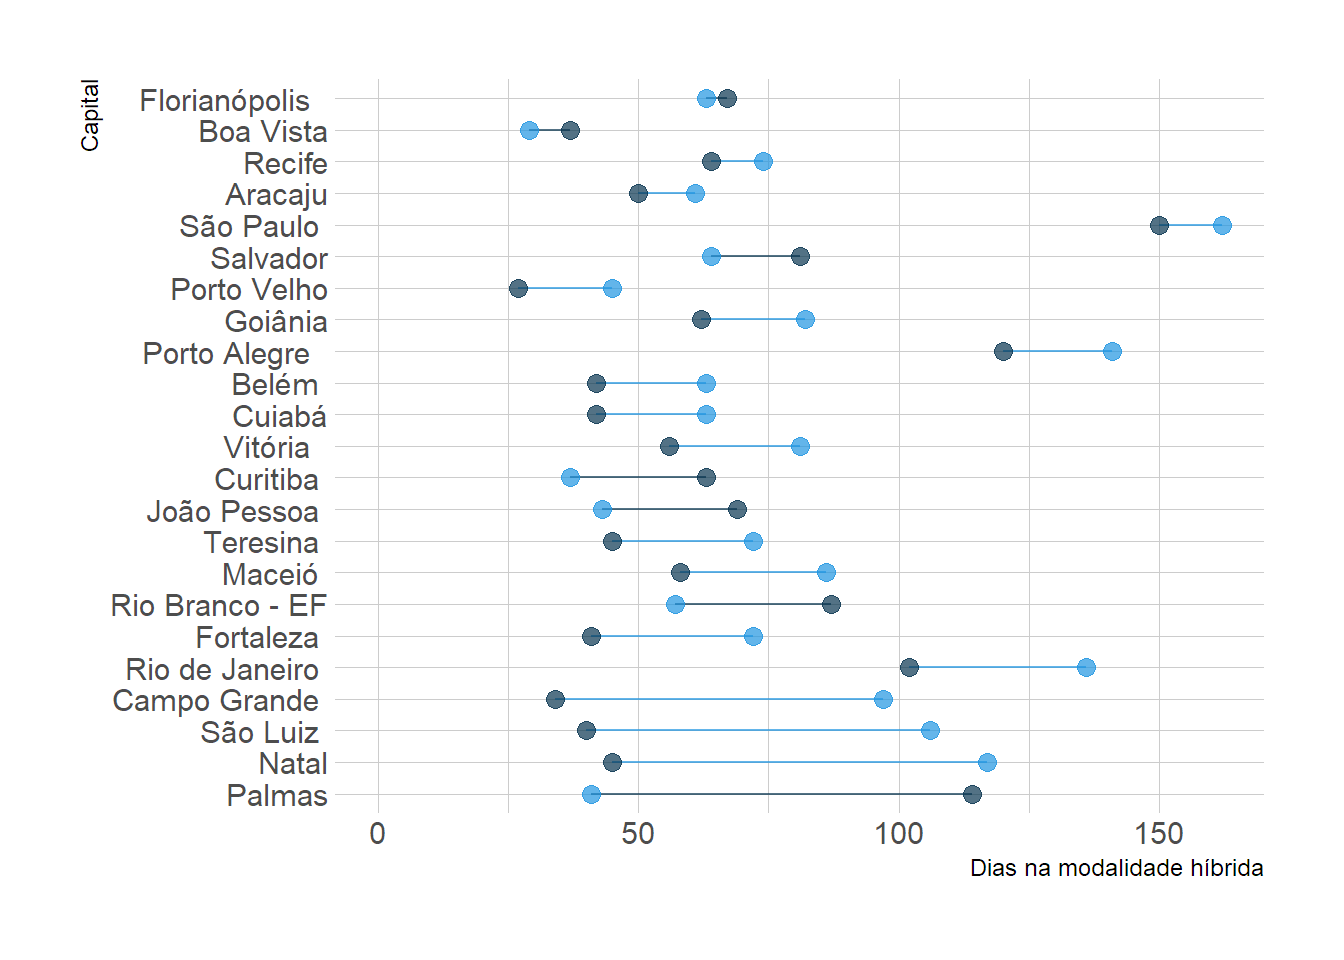
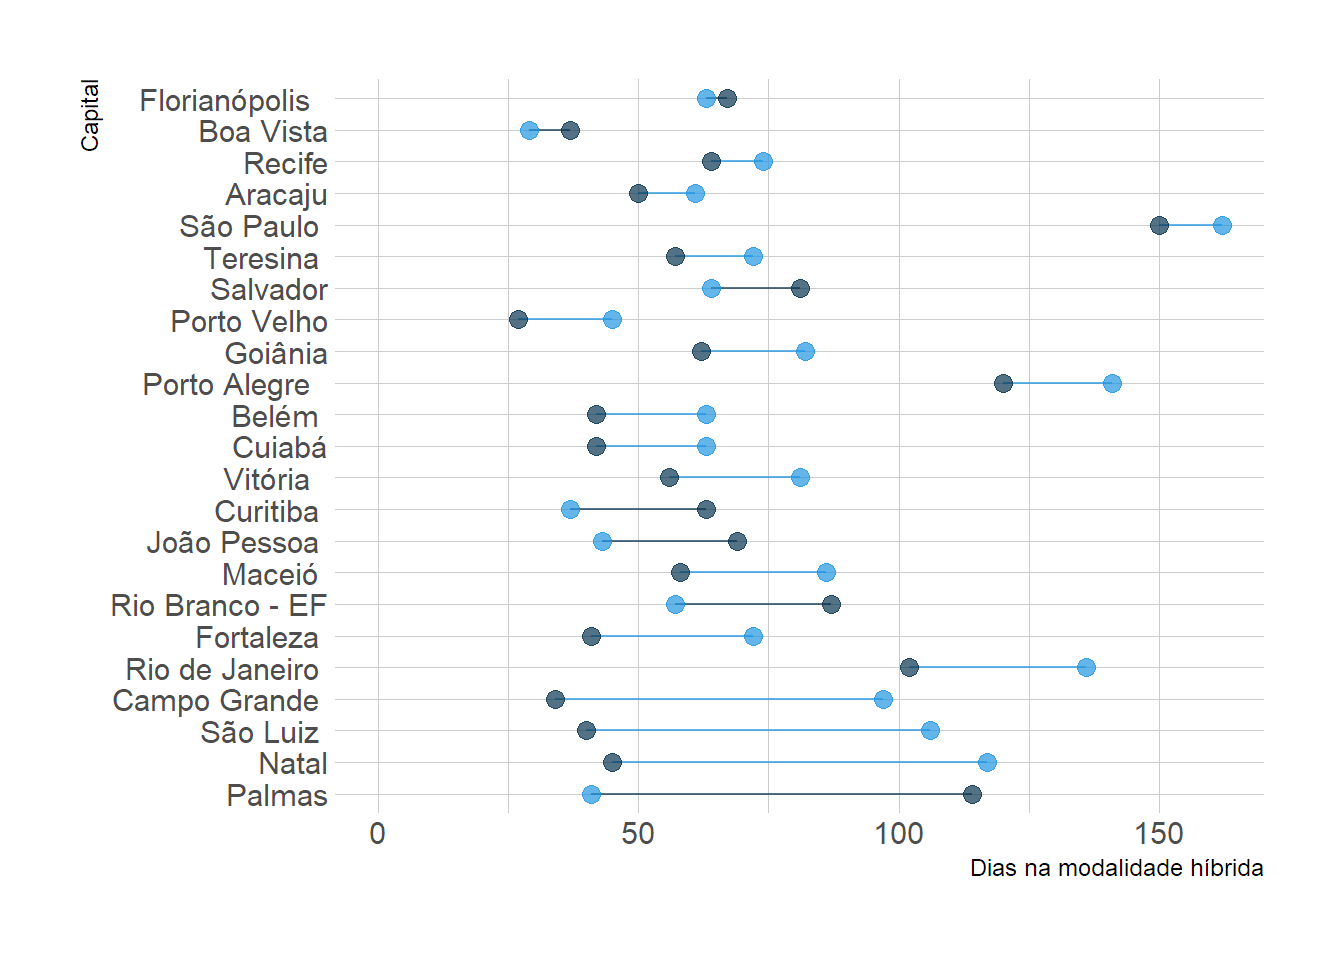
Correção Piauí

diff --git a/docs/Cronograma.html b/docs/Cronograma.html
@@ -346,27 +346,27 @@ novo_cronograma_municipal &lt;- novo_cronograma %&gt;%
 
 print(graf, &quot;chart&quot;)</code></pre>
 <!-- BarChart generated in R 4.0.3 by googleVis 0.6.10 package -->
-<!-- Tue Dec 21 16:57:47 2021 -->
+<!-- Wed Dec 22 12:39:04 2021 -->
 <!-- jsHeader -->
 <script type="text/javascript">
  
 // jsData 
-function gvisDataBarChartIDa180fce7d4 () {
+function gvisDataBarChartID1a54444f1712 () {
 var data = new google.visualization.DataTable();
 var datajson =
 [
  [
-"Teresina ",
-166,
-45,
-42,
-0
-],
-[
 "Goiânia",
 109,
 62,
 40,
+0
+],
+[
+"Teresina ",
+111,
+57,
+42,
 0
 ],
 [
@@ -562,8 +562,8 @@ return(data);
 }
  
 // jsDrawChart
-function drawChartBarChartIDa180fce7d4() {
-var data = gvisDataBarChartIDa180fce7d4();
+function drawChartBarChartID1a54444f1712() {
+var data = gvisDataBarChartID1a54444f1712();
 var options = {};
 options["allowHtml"] = true;
 options["bars"] = "horizontal";
@@ -576,7 +576,7 @@ options["fontSize"] = 14.4;
 options["chartArea"] = {height:"90%"};
 
     var chart = new google.visualization.BarChart(
-    document.getElementById('BarChartIDa180fce7d4')
+    document.getElementById('BarChartID1a54444f1712')
     );
     chart.draw(data,options);
     
@@ -600,9 +600,9 @@ if (newPackage)
   pkgs.push(chartid);
   
 // Add the drawChart function to the global list of callbacks
-callbacks.push(drawChartBarChartIDa180fce7d4);
+callbacks.push(drawChartBarChartID1a54444f1712);
 })();
-function displayChartBarChartIDa180fce7d4() {
+function displayChartBarChartID1a54444f1712() {
   var pkgs = window.__gvisPackages = window.__gvisPackages || [];
   var callbacks = window.__gvisCallbacks = window.__gvisCallbacks || [];
   window.clearTimeout(window.__gvisLoad);
@@ -625,9 +625,9 @@ callbacks.shift()();
 // jsFooter
 </script>
 <!-- jsChart -->
-<script type="text/javascript" src="https://www.google.com/jsapi?callback=displayChartBarChartIDa180fce7d4"></script>
+<script type="text/javascript" src="https://www.google.com/jsapi?callback=displayChartBarChartID1a54444f1712"></script>
 <!-- divChart -->
-<div id="BarChartIDa180fce7d4" style="width: 500; height: 600;">
+<div id="BarChartID1a54444f1712" style="width: 500; height: 600;">
 
 </div>
 <p>Em média, as escolas públicas estaduais brasileiras tiveram 86 dias de aulas remotas, 63 de aulas no formato híbrido e 46 no formato presencial. Enquanto as regiões Norte, Nordeste e Centro-oeste tiveram uma média de no mínimo 89 dias de aulas remotas, as regiões sul e sudeste tiveram em média apenas 33 e 55 dias letivos nessa modalidade.</p>
@@ -675,12 +675,12 @@ callbacks.shift()();
 
 print(graf, &quot;chart&quot;)</code></pre>
 <!-- BarChart generated in R 4.0.3 by googleVis 0.6.10 package -->
-<!-- Tue Dec 21 16:57:47 2021 -->
+<!-- Wed Dec 22 12:39:04 2021 -->
 <!-- jsHeader -->
 <script type="text/javascript">
  
 // jsData 
-function gvisDataBarChartIDa18023b64dc0 () {
+function gvisDataBarChartID1a5431341909 () {
 var data = new google.visualization.DataTable();
 var datajson =
 [
@@ -877,8 +877,8 @@ return(data);
 }
  
 // jsDrawChart
-function drawChartBarChartIDa18023b64dc0() {
-var data = gvisDataBarChartIDa18023b64dc0();
+function drawChartBarChartID1a5431341909() {
+var data = gvisDataBarChartID1a5431341909();
 var options = {};
 options["allowHtml"] = true;
 options["bars"] = "horizontal";
@@ -891,7 +891,7 @@ options["fontSize"] = 14.4;
 options["chartArea"] = {height:"90%"};
 
     var chart = new google.visualization.BarChart(
-    document.getElementById('BarChartIDa18023b64dc0')
+    document.getElementById('BarChartID1a5431341909')
     );
     chart.draw(data,options);
     
@@ -915,9 +915,9 @@ if (newPackage)
   pkgs.push(chartid);
   
 // Add the drawChart function to the global list of callbacks
-callbacks.push(drawChartBarChartIDa18023b64dc0);
+callbacks.push(drawChartBarChartID1a5431341909);
 })();
-function displayChartBarChartIDa18023b64dc0() {
+function displayChartBarChartID1a5431341909() {
   var pkgs = window.__gvisPackages = window.__gvisPackages || [];
   var callbacks = window.__gvisCallbacks = window.__gvisCallbacks || [];
   window.clearTimeout(window.__gvisLoad);
@@ -940,9 +940,9 @@ callbacks.shift()();
 // jsFooter
 </script>
 <!-- jsChart -->
-<script type="text/javascript" src="https://www.google.com/jsapi?callback=displayChartBarChartIDa18023b64dc0"></script>
+<script type="text/javascript" src="https://www.google.com/jsapi?callback=displayChartBarChartID1a5431341909"></script>
 <!-- divChart -->
-<div id="BarChartIDa18023b64dc0" style="width: 500; height: 600;">
+<div id="BarChartID1a5431341909" style="width: 500; height: 600;">
 
 </div>
 <p>As diferenças regionais entre os cronogramas das escolas públicas municipais são similares às vistas nas escolas estaduais. A média de dias no ensino remoto foi de 85 dias, valor praticamente idêntico àquele obtido na rede estadual (86). Para ensino híbrido, houve uma média de 74 dias letivos (11 dias a mais do que a média estadual), enquanto para o ensino presencial a média obtida foi de 36 dias (10 a menos que a média estadual).</p>
@@ -1074,7 +1074,7 @@ cowplot::plot_grid(legenda)</code></pre>
 <pre class="r"><code>novo_cronograma_estadual</code></pre>
 <div data-pagedtable="false">
 <script data-pagedtable-source type="application/json">
-{"columns":[{"label":["remoto"],"name":[1],"type":["dbl"],"align":["right"]},{"label":["hibrido"],"name":[2],"type":["dbl"],"align":["right"]},{"label":["presencial"],"name":[3],"type":["dbl"],"align":["right"]},{"label":["capital"],"name":[4],"type":["chr"],"align":["left"]},{"label":["rede"],"name":[5],"type":["chr"],"align":["left"]},{"label":["regiao"],"name":[6],"type":["chr"],"align":["left"]},{"label":["total_dias"],"name":[7],"type":["dbl"],"align":["right"]}],"data":[{"1":"100","2":"50","3":"50","4":"Aracaju","5":"Estadual","6":"Nordeste","7":"200"},{"1":"80","2":"81","3":"42","4":"Salvador","5":"Estadual","6":"Nordeste","7":"203"},{"1":"100","2":"41","3":"59","4":"Fortaleza","5":"Estadual","6":"Nordeste","7":"200"},{"1":"89","2":"40","3":"71","4":"São Luiz","5":"Estadual","6":"Nordeste","7":"200"},{"1":"136","2":"69","3":"0","4":"João Pessoa","5":"Estadual","6":"Nordeste","7":"205"},{"1":"166","2":"45","3":"42","4":"Teresina","5":"Estadual","6":"Nordeste","7":"253"},{"1":"80","2":"45","3":"52","4":"Natal","5":"Estadual","6":"Nordeste","7":"177"},{"1":"105","2":"64","3":"31","4":"Recife","5":"Estadual","6":"Nordeste","7":"200"},{"1":"109","2":"58","3":"34","4":"Maceió","5":"Estadual","6":"Nordeste","7":"201"},{"1":"103","2":"58","3":"39","4":"Distrito Federal","5":"Estadual","6":"Centro-oeste","7":"200"},{"1":"109","2":"62","3":"40","4":"Goiânia","5":"Estadual","6":"Centro-oeste","7":"211"},{"1":"112","2":"42","3":"46","4":"Cuiabá","5":"Estadual","6":"Centro-oeste","7":"200"},{"1":"112","2":"34","3":"54","4":"Campo Grande","5":"Estadual","6":"Centro-oeste","7":"200"},{"1":"100","2":"42","3":"58","4":"Belém","5":"Estadual","6":"Norte","7":"200"},{"1":"93","2":"67","3":"0","4":"Rio Branco - EM","5":"Estadual","6":"Norte","7":"160"},{"1":"93","2":"87","3":"0","4":"Rio Branco - EF","5":"Estadual","6":"Norte","7":"180"},{"1":"102","2":"22","3":"76","4":"Macapá","5":"Estadual","6":"Norte","7":"200"},{"1":"70","2":"35","3":"105","4":"Manaus","5":"Estadual","6":"Norte","7":"210"},{"1":"114","2":"27","3":"59","4":"Porto Velho","5":"Estadual","6":"Norte","7":"200"},{"1":"89","2":"37","3":"48","4":"Boa Vista","5":"Estadual","6":"Norte","7":"174"},{"1":"50","2":"114","3":"0","4":"Palmas","5":"Estadual","6":"Norte","7":"164"},{"1":"72","2":"82","3":"46","4":"Belo Horizonte","5":"Estadual","6":"Sudeste","7":"200"},{"1":"5","2":"56","3":"62","4":"Vitória","5":"Estadual","6":"Sudeste","7":"123"},{"1":"43","2":"102","3":"62","4":"Rio de Janeiro","5":"Estadual","6":"Sudeste","7":"207"},{"1":"12","2":"150","3":"38","4":"São Paulo","5":"Estadual","6":"Sudeste","7":"200"},{"1":"67","2":"67","3":"67","4":"Florianópolis","5":"Estadual","6":"Sul","7":"201"},{"1":"55","2":"63","3":"82","4":"Curitiba","5":"Estadual","6":"Sul","7":"200"},{"1":"43","2":"120","3":"37","4":"Porto Alegre","5":"Estadual","6":"Sul","7":"200"}],"options":{"columns":{"min":{},"max":[10]},"rows":{"min":[10],"max":[10]},"pages":{}}}
+{"columns":[{"label":["remoto"],"name":[1],"type":["dbl"],"align":["right"]},{"label":["hibrido"],"name":[2],"type":["dbl"],"align":["right"]},{"label":["presencial"],"name":[3],"type":["dbl"],"align":["right"]},{"label":["capital"],"name":[4],"type":["chr"],"align":["left"]},{"label":["rede"],"name":[5],"type":["chr"],"align":["left"]},{"label":["regiao"],"name":[6],"type":["chr"],"align":["left"]},{"label":["total_dias"],"name":[7],"type":["dbl"],"align":["right"]}],"data":[{"1":"100","2":"50","3":"50","4":"Aracaju","5":"Estadual","6":"Nordeste","7":"200"},{"1":"80","2":"81","3":"42","4":"Salvador","5":"Estadual","6":"Nordeste","7":"203"},{"1":"100","2":"41","3":"59","4":"Fortaleza","5":"Estadual","6":"Nordeste","7":"200"},{"1":"89","2":"40","3":"71","4":"São Luiz","5":"Estadual","6":"Nordeste","7":"200"},{"1":"136","2":"69","3":"0","4":"João Pessoa","5":"Estadual","6":"Nordeste","7":"205"},{"1":"111","2":"57","3":"42","4":"Teresina","5":"Estadual","6":"Nordeste","7":"210"},{"1":"80","2":"45","3":"52","4":"Natal","5":"Estadual","6":"Nordeste","7":"177"},{"1":"105","2":"64","3":"31","4":"Recife","5":"Estadual","6":"Nordeste","7":"200"},{"1":"109","2":"58","3":"34","4":"Maceió","5":"Estadual","6":"Nordeste","7":"201"},{"1":"103","2":"58","3":"39","4":"Distrito Federal","5":"Estadual","6":"Centro-oeste","7":"200"},{"1":"109","2":"62","3":"40","4":"Goiânia","5":"Estadual","6":"Centro-oeste","7":"211"},{"1":"112","2":"42","3":"46","4":"Cuiabá","5":"Estadual","6":"Centro-oeste","7":"200"},{"1":"112","2":"34","3":"54","4":"Campo Grande","5":"Estadual","6":"Centro-oeste","7":"200"},{"1":"100","2":"42","3":"58","4":"Belém","5":"Estadual","6":"Norte","7":"200"},{"1":"93","2":"67","3":"0","4":"Rio Branco - EM","5":"Estadual","6":"Norte","7":"160"},{"1":"93","2":"87","3":"0","4":"Rio Branco - EF","5":"Estadual","6":"Norte","7":"180"},{"1":"102","2":"22","3":"76","4":"Macapá","5":"Estadual","6":"Norte","7":"200"},{"1":"70","2":"35","3":"105","4":"Manaus","5":"Estadual","6":"Norte","7":"210"},{"1":"114","2":"27","3":"59","4":"Porto Velho","5":"Estadual","6":"Norte","7":"200"},{"1":"89","2":"37","3":"48","4":"Boa Vista","5":"Estadual","6":"Norte","7":"174"},{"1":"50","2":"114","3":"0","4":"Palmas","5":"Estadual","6":"Norte","7":"164"},{"1":"72","2":"82","3":"46","4":"Belo Horizonte","5":"Estadual","6":"Sudeste","7":"200"},{"1":"5","2":"56","3":"62","4":"Vitória","5":"Estadual","6":"Sudeste","7":"123"},{"1":"43","2":"102","3":"62","4":"Rio de Janeiro","5":"Estadual","6":"Sudeste","7":"207"},{"1":"12","2":"150","3":"38","4":"São Paulo","5":"Estadual","6":"Sudeste","7":"200"},{"1":"67","2":"67","3":"67","4":"Florianópolis","5":"Estadual","6":"Sul","7":"201"},{"1":"55","2":"63","3":"82","4":"Curitiba","5":"Estadual","6":"Sul","7":"200"},{"1":"43","2":"120","3":"37","4":"Porto Alegre","5":"Estadual","6":"Sul","7":"200"}],"options":{"columns":{"min":{},"max":[10]},"rows":{"min":[10],"max":[10]},"pages":{}}}
   </script>
 </div>
 </div>
